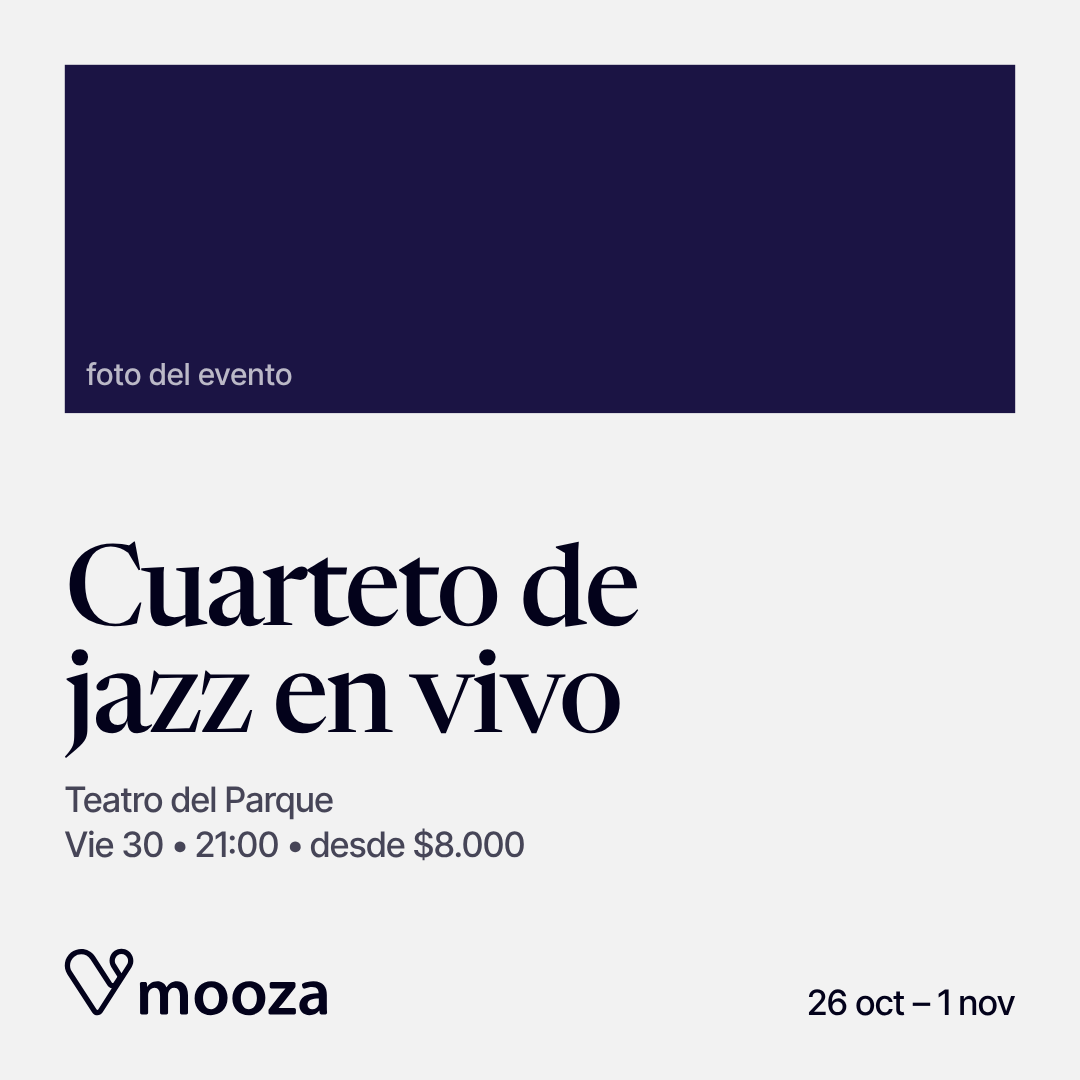
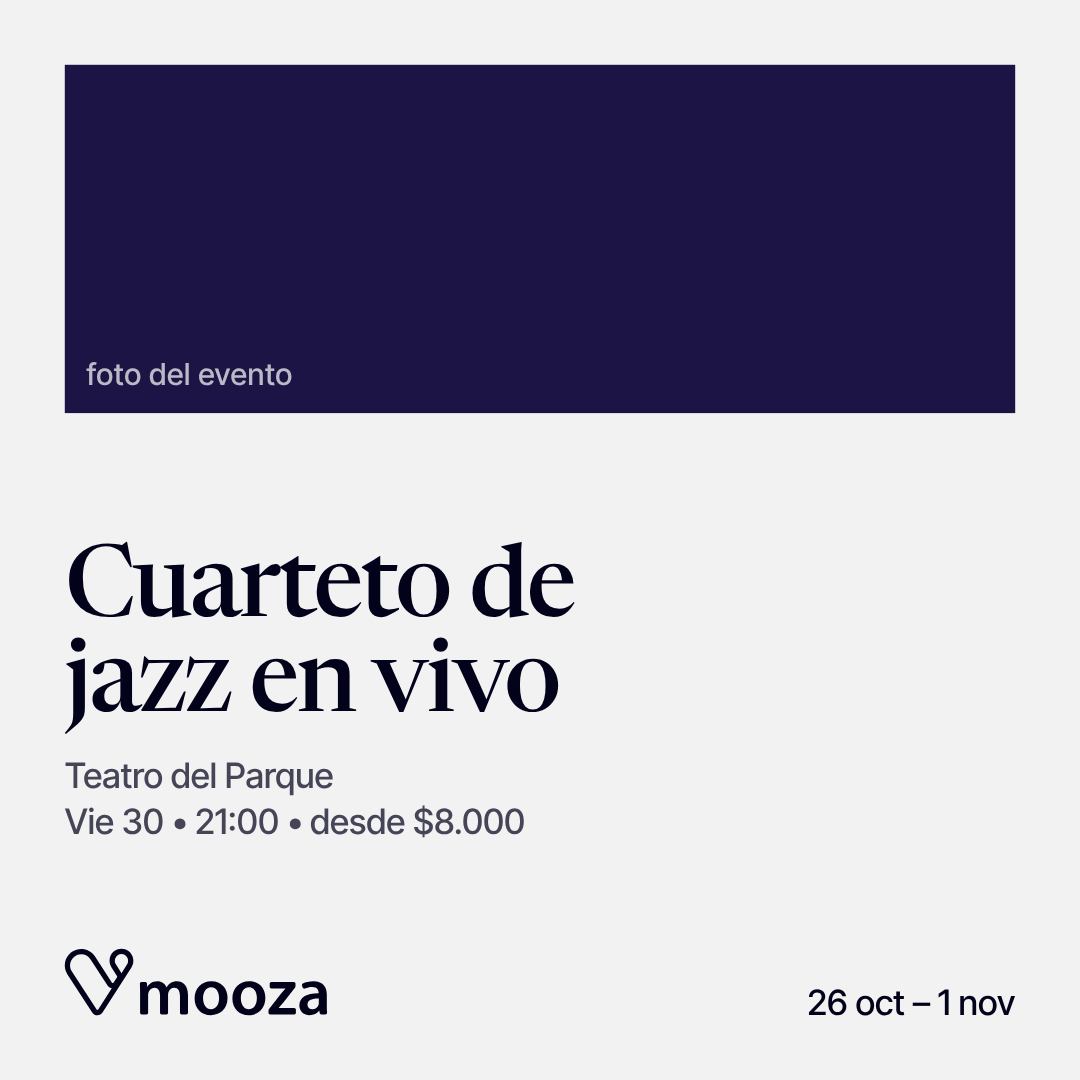
Escala tipográfica más chica y pesos medios; láminas actualizadas
Claude-Session: https://claude.ai/code/session_01FatczGDNUrWcTXBDB5f52U

Changed region(s): [[0.0611, 0.4889, 0.6111, 0.7944]]

diff --git a/guidelines/index.html b/guidelines/index.html
@@ -277,8 +277,8 @@ input[type=range]{width:100%;accent-color:var(--mz-amarillo);height:26px;margin:
         <p class="d">Newsreader 500 para titulares y nombres. Inter Tight 500 a 600 para números, fechas, horas, precios y etiquetas. Ambas con licencia abierta (OFL) en Google Fonts.</p>
       </div>
       <ul class="estilos">
-        <li><span class="a" style="font-family:var(--mz-serif);font-weight:500;letter-spacing:-.035em">titular</span><span class="m">Newsreader 500</span><span class="s2">1,8 columnas de alto de letra • interlínea 0,9 • tracking −0,035 em • mayúscula inicial</span></li>
-        <li><span class="a" style="font-family:var(--mz-serif);font-weight:500">Cuarteto de jazz en vivo</span><span class="m">Newsreader 500</span><span class="s2">Nombre de evento, sala o artista • 1,12 columnas • mayúscula inicial</span></li>
+        <li><span class="a" style="font-family:var(--mz-serif);font-weight:500;letter-spacing:-.035em">titular</span><span class="m">Newsreader 500</span><span class="s2">1,4 columnas de alto de letra • interlínea 0,9 • tracking −0,035 em • mayúscula inicial</span></li>
+        <li><span class="a" style="font-family:var(--mz-serif);font-weight:500">Cuarteto de jazz en vivo</span><span class="m">Newsreader 500</span><span class="s2">Nombre de evento, sala o artista • 0,95 columnas • mayúscula inicial</span></li>
         <li><span class="a" style="font-weight:600;letter-spacing:-.05em">26–1 • 21:00 • $6.000</span><span class="m">Inter Tight 600</span><span class="s2">Números y datos • cifras tabulares • tracking −0,05 em en tamaño grande</span></li>
         <li><span class="a" style="font-size:14px;font-weight:600">Música • Teatro • Cine</span><span class="m">Inter Tight 600</span><span class="s2">Etiquetas de categoría • 0,2 columnas • mayúscula inicial</span></li>
         <li><span class="a" style="font-size:16px;font-weight:400">Texto de cuerpo y de interfaz</span><span class="m">Inter Tight 400</span><span class="s2">16 px, interlínea 1,5 • ancho de línea máximo de 65 caracteres</span></li>

diff --git a/tokens/grid.css b/tokens/grid.css
@@ -21,10 +21,10 @@
 
   /* escala tipográfica: siete pasos, cada uno cerca de 1,6 veces el anterior, medidos en columnas.
      Un cartel usa tres pasos como máximo, con saltos claros entre ellos. */
-  --mz-t-display: calc(var(--mz-col) * 3 * 1cqw);     /* el número del cartel, grotesca. Uno por pieza */
-  --mz-t-grande: calc(var(--mz-col) * 1.8 * 1cqw);    /* el titular, serif. Ocupa casi todo el ancho */
-  --mz-t-titular: calc(var(--mz-col) * 1.12 * 1cqw);   /* nombre del evento o segundo titular, serif */
-  --mz-t-sub: calc(var(--mz-col) * .7 * 1cqw);       /* fecha en bloque, grotesca */
+  --mz-t-display: calc(var(--mz-col) * 2.2 * 1cqw);     /* el número del cartel, grotesca. Uno por pieza */
+  --mz-t-grande: calc(var(--mz-col) * 1.4 * 1cqw);    /* el titular, serif. Ocupa casi todo el ancho */
+  --mz-t-titular: calc(var(--mz-col) * .95 * 1cqw);   /* nombre del evento o segundo titular, serif */
+  --mz-t-sub: calc(var(--mz-col) * .62 * 1cqw);       /* fecha en bloque, grotesca */
   --mz-t-texto: calc(var(--mz-col) * .44 * 1cqw);     /* nombres en listas, serif; horas, grotesca */
   --mz-t-dato: calc(var(--mz-col) * .28 * 1cqw);       /* fechas, lugares, precios y pie, grotesca */
   --mz-t-micro: calc(var(--mz-col) * .2 * 1cqw);     /* etiquetas y letras de día, grotesca */

diff --git a/components/grid/grid.css b/components/grid/grid.css
@@ -29,8 +29,8 @@
 
 /* mitad derecha de los horizontales: del centro al borde */
 .mz-grid>.mz-mitad{position:absolute;left:50%;right:0;top:0;bottom:0;z-index:0}
-.mz-f-16x9{--mz-t-display:calc(var(--mz-col)*1.2*1cqw);--mz-t-grande:calc(var(--mz-col)*.8*1cqw);--mz-t-titular:calc(var(--mz-col)*.5*1cqw);--mz-t-sub:calc(var(--mz-col)*.46*1cqw);--mz-t-dato:calc(var(--mz-col)*.24*1cqw)}
-.mz-f-1x1{--mz-t-grande:calc(var(--mz-col)*1.5*1cqw);--mz-t-titular:calc(var(--mz-col)*.9*1cqw)}
+.mz-f-16x9{--mz-t-display:calc(var(--mz-col)*.95*1cqw);--mz-t-grande:calc(var(--mz-col)*.65*1cqw);--mz-t-titular:calc(var(--mz-col)*.42*1cqw);--mz-t-sub:calc(var(--mz-col)*.4*1cqw);--mz-t-dato:calc(var(--mz-col)*.24*1cqw)}
+.mz-f-1x1{--mz-t-titular:calc(var(--mz-col)*.8*1cqw)}
 
 /* el fondo es siempre el gris claro; el color vive en una zona (ver arriba) */
 .mz-sobre-oscuro{color:var(--mz-blanco)}

diff --git a/components/grid/poster.js b/components/grid/poster.js
@@ -14,8 +14,7 @@
   /* filas de cada formato (la última es siempre el pie) y filas de la zona de arriba.
      En 16x9 el cartel se parte en mitades: izquierda blanca, derecha de color; la columna 4 queda sobre la línea del centro. */
   var ARRIBA={'4x5':4,'a3':5,'1x1':3,'9x16':8};
-  /* el titular de tres líneas necesita una fila más en vertical */
-  var ARRIBA_TITULAR={'4x5':5,'a3':6,'1x1':3};
+  var ARRIBA_TITULAR=ARRIBA;
   var ROWS={
     titular:{'4x5':9,'a3':11,'1x1':8,'16x9':4},
     numero:{'4x5':9,'a3':11,'1x1':8,'16x9':4},

diff --git a/tokens/typography.css b/tokens/typography.css
@@ -10,11 +10,11 @@
   --mz-peso-titular: 500;   /* serif de titular */
   --mz-peso-texto:   400;
   --mz-peso-dato:    500;   /* grotesca de fechas y horas */
-  --mz-peso-numero:  600;   /* número grande del cartel */
-  --mz-peso-etiqueta:600;
+  --mz-peso-numero:  500;   /* número grande del cartel */
+  --mz-peso-etiqueta:500;
 
   --mz-track-titular: -.035em;
-  --mz-track-numero:  -.05em;
+  --mz-track-numero:  -.04em;
   --mz-track-etiqueta: .14em;
   --mz-leading-titular: .93;
 }

diff --git a/readme.md b/readme.md
@@ -118,7 +118,7 @@ Una idea por cartel y mucho espacio libre. Cada cartel se parte en dos zonas, un
 
 Filas por formato: 9 en 4:5, 11 en A3, 8 en 1:1, 4 en 16:9 y 16 en 9:16. En 16:9 la mitad izquierda es gris y la derecha lleva el azul o la foto; la columna 4 queda sobre el centro y va vacía.
 
-Escala tipográfica, en múltiplos del ancho de columna: número 3, titular 1,8, nombre 1,12, fecha en bloque 0,7, texto de lista 0,44, dato 0,28 y etiqueta 0,2. Cada paso es cerca de 1,6 veces el anterior y un cartel usa tres como máximo. En 1:1 y 16:9 el titular y el número bajan para caber en la zona. El carrusel semanal de Instagram se arma con una portada (titular), una o más láminas de agenda por día y un cierre (titular).
+Escala tipográfica, en múltiplos del ancho de columna: número 2,2, titular 1,4, nombre 0,95, fecha en bloque 0,62, texto de lista 0,44, dato 0,28 y etiqueta 0,2. Cada paso es cerca de 1,5 veces el anterior y un cartel usa tres como máximo. Los pesos son medios (500): ni negritas ni finas. En 16:9 y, en parte, en 1:1 los tamaños bajan para caber en la zona. El carrusel semanal de Instagram se arma con una portada (titular), una o más láminas de agenda por día y un cierre (titular).
 
 ## Propuesta web
 
